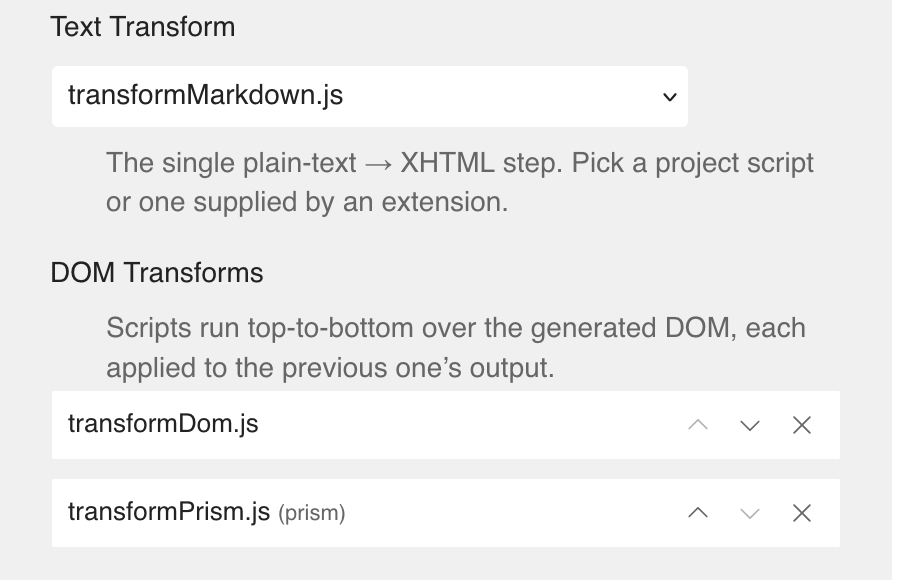
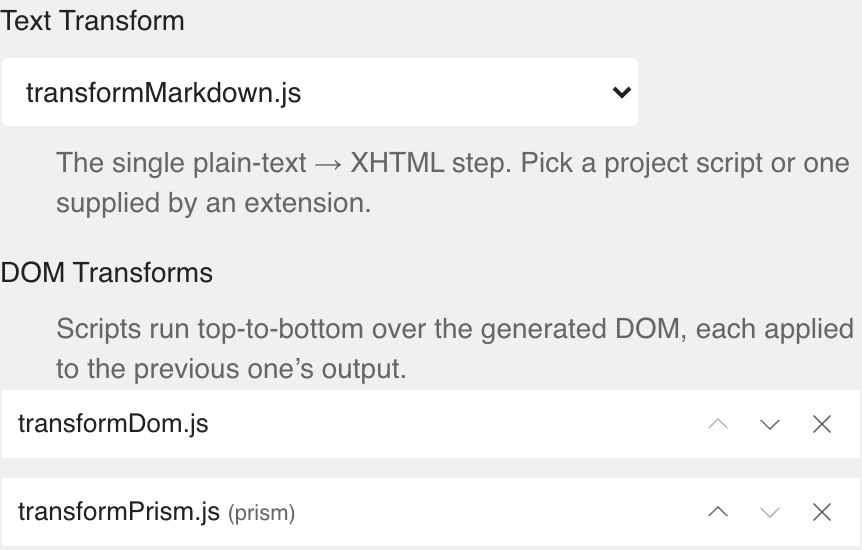
feat: add the EPUB Settings manual shot; capture per fresh context
First Advanced Mode + extension-seeded manual shot: screenshot-epub-settings
regenerates from a markdown-it + prism project, reproducing the pipeline the
illustration shows (transformMarkdown.js; transformDom.js then
transformPrism.js). Recipes set app mode through the advancedMode store (raw
localStorage can't flip the already-initialised persisted store); extension
shots are !test (need the dev-served /extensions/) and validated at capture.
capture-manual-shots.js now uses a fresh browser context per shot so app-mode
loaders are deterministic and heavy recipes don't starve on an accumulated
context. STORYBOOK.md documents both gotchas and the extensions option.

diff --git a/src/stories/manual-shots/AdvancedReference.stories.svelte b/src/stories/manual-shots/AdvancedReference.stories.svelte
@@ -1,0 +1,72 @@
+<script module>
+  import { defineMeta } from '@storybook/addon-svelte-csf';
+  import App from '../../App.svelte';
+  import { seedProject } from '../utils/seed-project';
+  import { advancedMode } from '../../lib/stores/advanced-mode';
+
+  // Screenshot recipes for the advanced reference
+  // (docs/seed.html-advanced-reference/). These document Advanced Mode, so the
+  // loaders force it on and seed projects with the extensions the illustration
+  // shows. Same pattern as the user-manual shots; see STORYBOOK.md.
+  const { Story } = defineMeta({
+    title: 'Manual Shots/Advanced Reference',
+    component: App,
+    parameters: {
+      layout: 'fullscreen',
+      docs: {
+        description: {
+          component:
+            "State recipes for the advanced reference's screenshots. Regenerate with `npm run manual-shots` (Storybook running).",
+        },
+      },
+    },
+    tags: ['manual-shot'],
+  });
+</script>
+
+<Story
+  name="EPUB Settings (transform pipeline)"
+  tags={['!test']}
+  loaders={[
+    async () => {
+      // Set the mode through the store, not raw localStorage: the persisted
+      // store reads its value at module load (before loaders run), so a raw
+      // write wouldn't flip the already-initialised in-memory value.
+      advancedMode.current = true;
+      // markdown-it supplies the text transform (transformMarkdown.js); prism
+      // supplies a DOM transform (transformPrism.js) — the exact pipeline the
+      // illustration shows: transformDom.js then transformPrism.js.
+      return {
+        seeded: await seedProject({
+          title: 'EPUB Settings Demo',
+          extensions: ['markdown-it', 'prism'],
+        }),
+      };
+    },
+  ]}
+  parameters={{
+    docs: {
+      description: {
+        story:
+          'Produces docs/seed.html-advanced-reference/Images/screenshot-epub-settings.png — the Text Transform + DOM Transforms pipeline (Advanced Mode → Settings → EPUB Settings) on a markdown-it + prism project. Tagged `!test`: installing extensions needs the dev-served `/extensions/` catalog, which the test:stories Storybook instance does not provide, so this shot is validated at capture time.',
+      },
+    },
+  }}
+  play={async ({ canvas, userEvent }) => {
+    await canvas.findByText('EPUB Settings Demo', {}, { timeout: 60000 });
+
+    // Advanced Mode → Settings view (navigate by testid; see STORYBOOK.md).
+    const settings = await canvas.findByTestId('nav-settings', {}, { timeout: 20000 });
+    await userEvent.click(settings);
+
+    // Open the EPUB Settings disclosure (collapsed by default).
+    const heading = await canvas.findByText('EPUB Settings', {}, { timeout: 20000 });
+    await userEvent.click(heading);
+
+    // Confirm the seeded extensions wired the pipeline the illustration shows.
+    await canvas.findByText('transformMarkdown.js', {}, { timeout: 20000 });
+    await canvas.findByText(/transformPrism\.js/, {}, { timeout: 20000 });
+  }}
+>
+  <App />
+</Story>

diff --git a/scripts/capture-manual-shots.js b/scripts/capture-manual-shots.js
@@ -31,16 +31,19 @@ async function captureManualShots() {
   }
 
   const browser = await chromium.launch();
-  const context = await browser.newContext({
-    viewport: { width: 1280, height: 800 },
-    deviceScaleFactor: 2,
-  });
-  const page = await context.newPage();
 
   console.log(`📸 Regenerating ${entries.length} manual shot(s) from ${SB_URL}...`);
   let failures = 0;
 
   for (const [out, shot] of entries) {
+    // A fresh context per shot: clean localStorage keeps each recipe's app-mode
+    // loader deterministic (no leakage from a prior shot), and avoids the
+    // slowdown of an accumulated context tipping heavy recipes over the wait.
+    const context = await browser.newContext({
+      viewport: { width: 1280, height: 800 },
+      deviceScaleFactor: 2,
+    });
+    const page = await context.newPage();
     try {
       console.log(`Capturing ${out} (${shot.mode} mode)...`);
       await page.goto(`${SB_URL}/iframe.html?id=${shot.story}&viewMode=story`);
@@ -48,7 +51,7 @@ async function captureManualShots() {
       // The story's play() drives to the end state; wait for the clip target
       // and give the final render a beat to settle (fonts, focus rings).
       const target = page.locator(shot.clip).first();
-      await target.waitFor({ state: 'visible', timeout: 60000 });
+      await target.waitFor({ state: 'visible', timeout: 90000 });
       await page.waitForTimeout(1000);
 
       fs.mkdirSync(path.dirname(out), { recursive: true });
@@ -57,6 +60,8 @@ async function captureManualShots() {
     } catch (error) {
       failures += 1;
       console.error(`❌ Failed ${out}:`, error.message);
+    } finally {
+      await context.close();
     }
   }
 

diff --git a/src/stories/manual-shots/UserManual.stories.svelte b/src/stories/manual-shots/UserManual.stories.svelte
@@ -2,6 +2,7 @@
   import { defineMeta } from '@storybook/addon-svelte-csf';
   import { waitFor } from 'storybook/test';
   import App from '../../App.svelte';
+  import { advancedMode } from '../../lib/stores/advanced-mode';
 
   // Screenshot recipes for the user manual (docs/seed.html-user-manual/).
   // Each story drives the real app to the exact state a manual illustration
@@ -30,8 +31,10 @@
   loaders={[
     async () => {
       // The shot documents Basic Mode: no Text-format picker (the project is
-      // created with Djot). Force the mode rather than inherit ambient state.
-      localStorage.setItem('editme_advanced_mode', 'false');
+      // created with Djot). Set through the store (not raw localStorage) so it
+      // reliably overrides an advanced-mode story that ran earlier in the same
+      // browser.
+      advancedMode.current = false;
       return {};
     },
   ]}
@@ -78,7 +81,7 @@
   tags={['!test']}
   loaders={[
     async () => {
-      localStorage.setItem('editme_advanced_mode', 'false');
+      advancedMode.current = false;
       return {};
     },
   ]}

diff --git a/STORYBOOK.md b/STORYBOOK.md
@@ -293,13 +293,20 @@ The manuals' app screenshots are regenerated from stories. `scripts/manual-shots
 
 Recipes run in `test:stories` too, so a locally-producible screenshot that breaks fails loudly instead of going stale — **except** shots that depend on the network (e.g. Import from Catalog fetches the live `sample.readitinabook.com` feed). The isolated `test:stories` browser can't reach external hosts, so those stories are tagged `tags={['!test']}` to opt out of the suite; they're still captured by `npm run manual-shots` (which runs a real browser) and fail loudly there if the feed is unreachable.
 
-Shots that **can't** be automated, and stay hand-made: native `<select>` popups (open dropdowns render outside the page, invisible to CDP), external apps (Thorium/Cantook), and real-hardware comparisons. Shots needing a project with specific **extensions installed** (Djot/markdown/prism — e.g. the EPUB Settings and generator illustrations, and any live preview showing a figure) await a `seedProject` option to install extensions; the default seed's minimal transform renders headings/bold/emphasis only.
+Shots that **can't** be automated, and stay hand-made: native `<select>` popups (open dropdowns render outside the page, invisible to CDP), external apps (Thorium/Cantook), and real-hardware comparisons.
+
+Two gotchas the recipes have to respect:
+
+- **App mode**: set it in the loader through the store — `advancedMode.current = true/false` — not raw `localStorage`. The persisted store reads its value at module load (before loaders run), so a raw write can't flip the already-initialised value. Basic-mode recipes must set `false` explicitly, or an advanced recipe that ran earlier in the same browser leaves the mode wrong.
+- **Extensions need the dev-served catalog**: `seedProject({ extensions: ['markdown-it', 'prism'] })` fetches `/extensions/` (same origin), which the dev Storybook serves but the isolated `test:stories` Storybook does not. So extension-seeded shots (like EPUB Settings) are tagged `!test` and validated at capture time.
 
 ## Workflow stories: seeding real projects, screenshots, and videos
 
 Workflow stories exist to capture screenshots and videos of real author workflows. They seed a **real project in the real storage backend**, mount the **full `App`**, and drive it with `play()`.
 
 The key: `App.svelte` has no injection seam, but it restores persisted state on boot. `src/stories/utils/seed-project.ts` builds the same service graph App wires itself (`FileStorageAPI` → `WorkspaceService` → `SpineService`), creates a project with chapters, and sets the persisted `editme_app_workspace_id` — so when the story mounts `App`, it opens on the seeded book exactly as a reload would.
+
+`seedProject` also takes `extensions: string[]` (e.g. `['markdown-it', 'prism']`) to install catalog extensions — it fetches them from the same-origin `/extensions/` the app uses, writes the project's default transform scripts plus a `settings.json` wiring the pipeline (text transform from the first format extension, DOM transforms appended), mirroring `App.installCatalogExtension`. Extension EPUB assets (e.g. a Prism theme CSS) aren't registered into the manifest yet — enough for the settings form and structural transforms, not asset-dependent styling.
 
 ```svelte
 <script module>